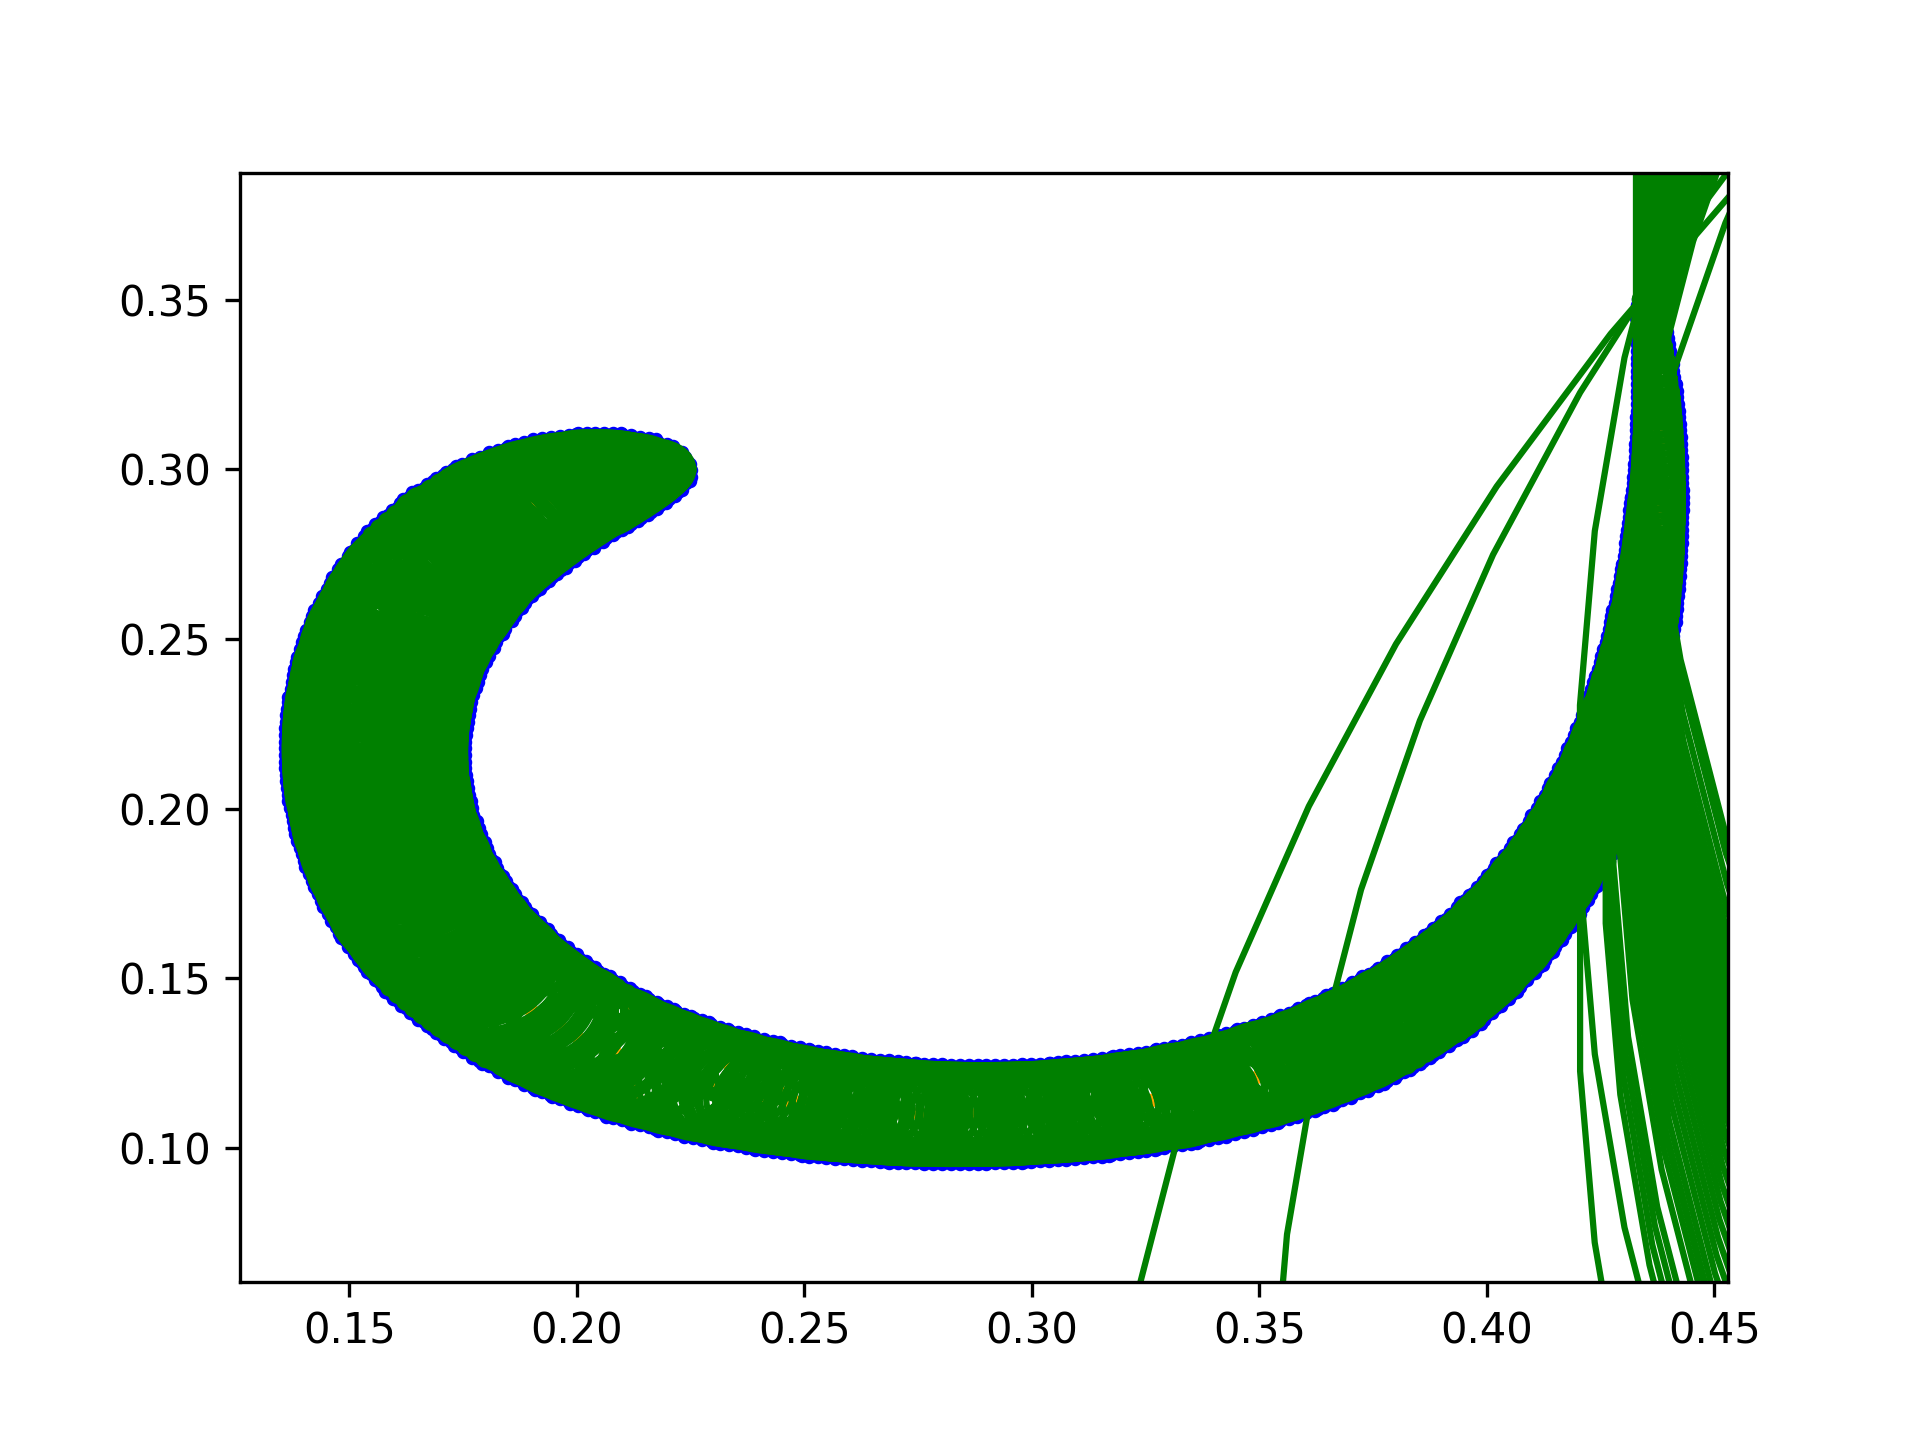
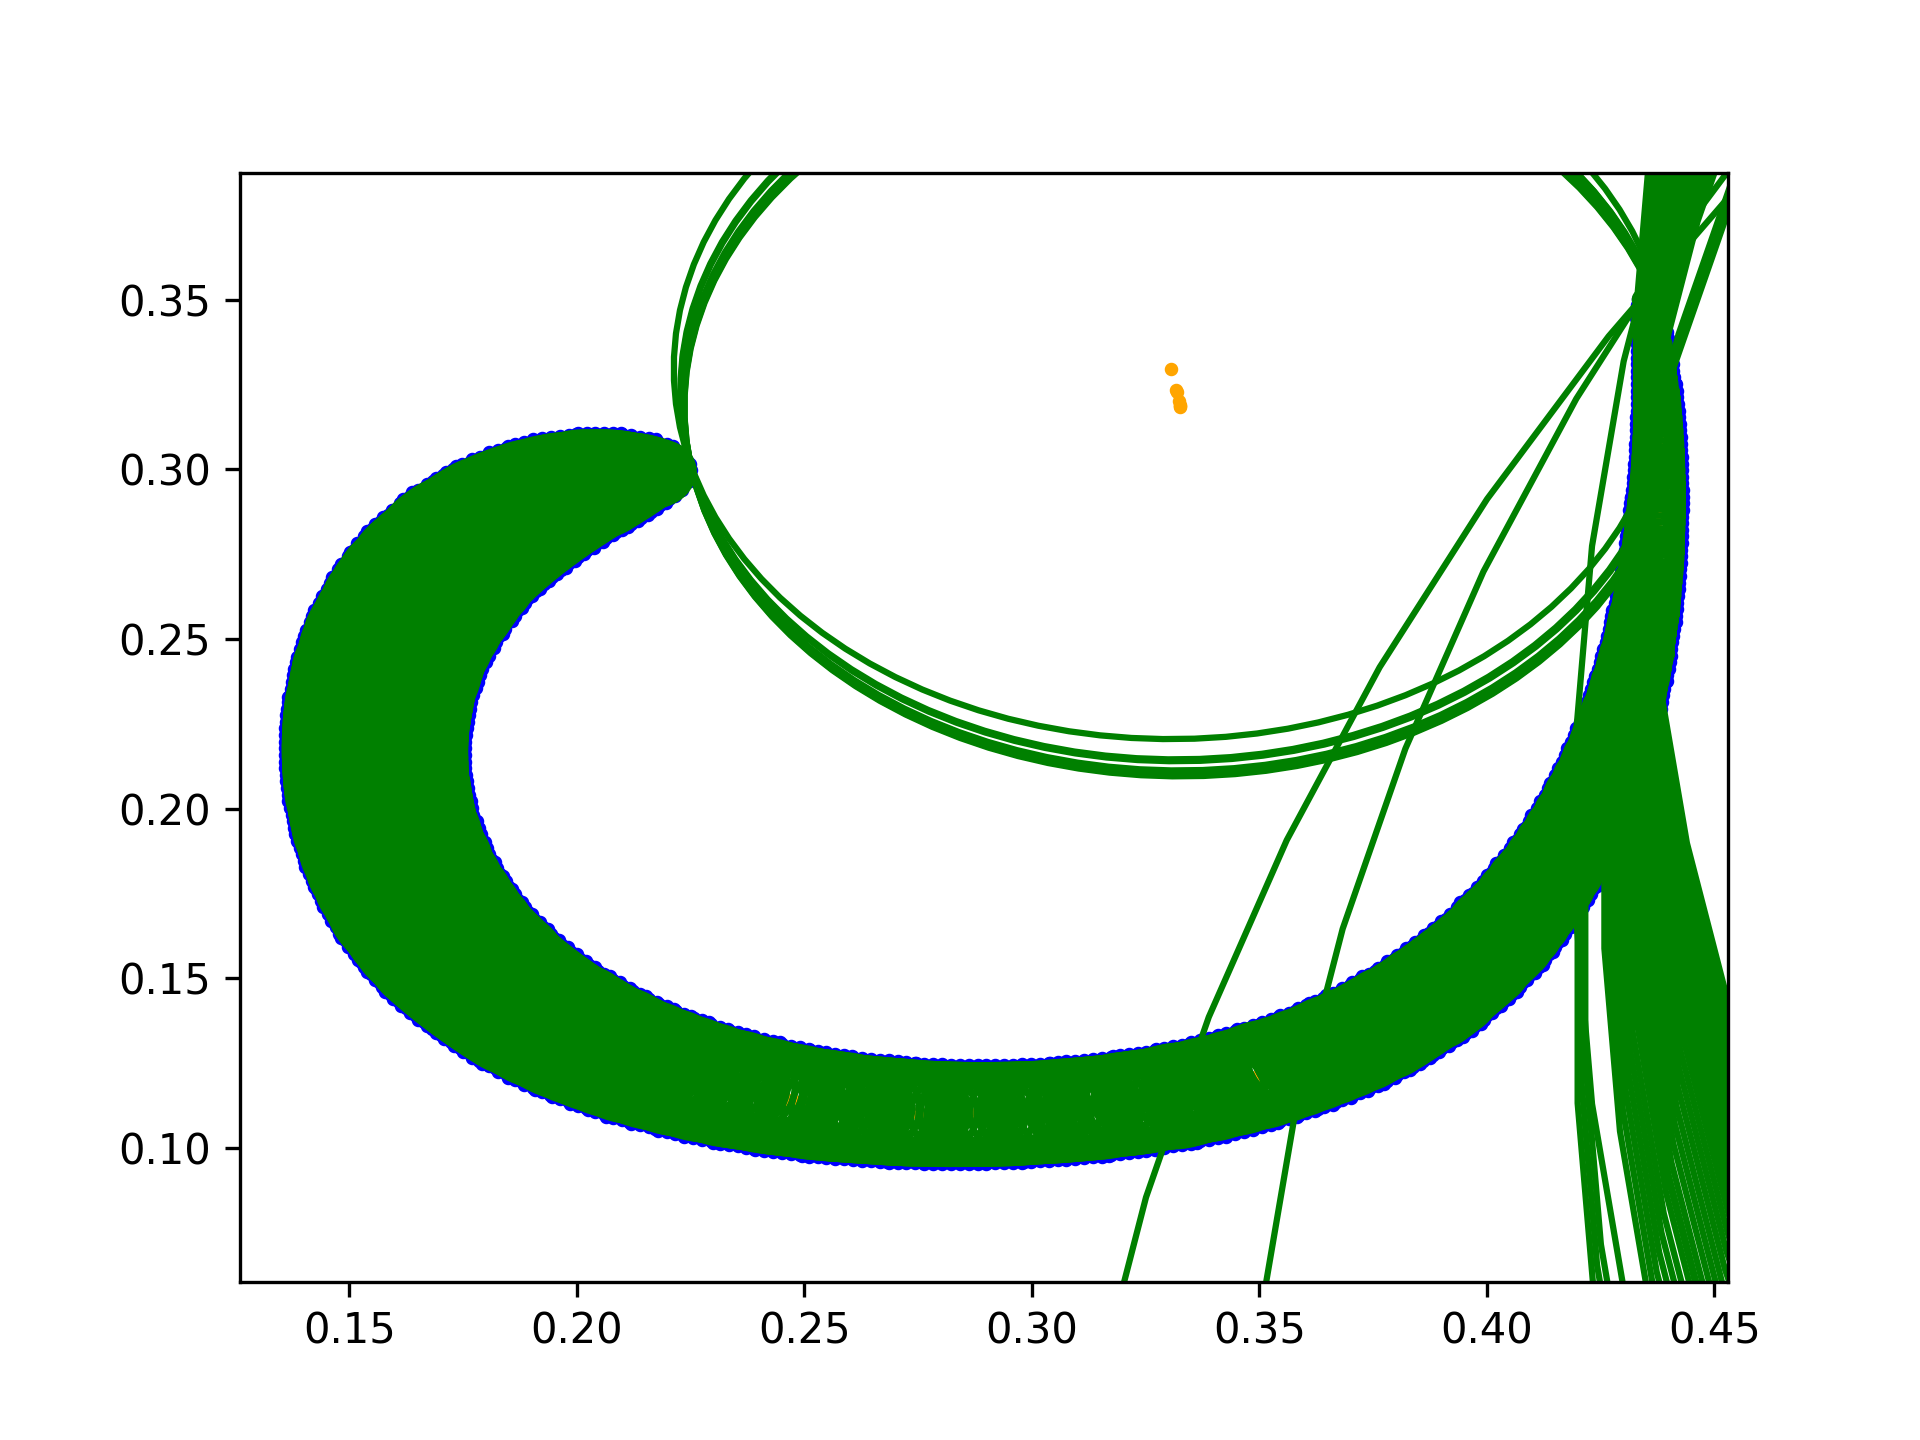
modified:   DataStructures.py 	modified:   Output.png 	modified:   OutputNoRad.png 	modified:   SkeleNet.py 	modified:   SkeleSave.dat 	modified:   __pycache__/DataStructures.cpython-36.pyc 	modified:   __pycache__/SkeleNet.cpython-36.pyc

diff --git a/DataStructures.py b/DataStructures.py
@@ -427,7 +427,9 @@ class kdTree:
 
     def getVectorR(self, data : list):
         depth = data[3]
+        print(depth)
         data[3] += 1
+        #print('searching',depth)
         if depth == 0:
             if len(data) == 5:
                 getRads = data[4]
@@ -486,9 +488,13 @@ class kdTree:
             if node.getAxis(self.axis) < data[0][self.axis] and data[1][self.axis] > 0:
                 #if want right leaf only
                 retpts,retdev = self.leafR.getVectorR(data)
+                print(data[0],'r only')
+                print(node.getPoint(),'along the',self.axis)
             elif node.getAxis(self.axis) < data[0][self.axis] and data[1][self.axis] < 0:
                 #if want left leaf only
                 retpts,retdev = self.leafL.getVectorR(data)
+                print(data[0],'l only')
+                print(node.getPoint(),'along the',self.axis)
             else:
                 retptsl,retdevl =  self.leafL.getVectorR(data)
                 retptsr,retdevr = self.leafR.getVectorR(data)
@@ -562,6 +568,8 @@ class kdTree:
             #         q += 1
             #     retpts.append(node)
             #     retdev.append(getDeviation(vector,tv))
+        if depth == 0:
+            print('Chose the point',retpts[0].getPoint(),'for',data[0])
         return retpts,retdev
                 
                 

diff --git a/SkeleNet.py b/SkeleNet.py
@@ -182,10 +182,10 @@ def skeletize(points : list,norms : list,threshDistance : float,tree : kdTree,an
                 q = 0
                 inputdat[0].append([])
                 while q < len(tnorm):
-                    inputdat[0][1].append(-1 * tnorm[q])
+                    inputdat[0][1].append(1 * tnorm[q])
                     q += 1
+                print('oop',inputdat[0][1],tnorm)
                 inputdat[0].append(threshDistance)
-                inputdat[0].append(1)
                 inputdat[0].append(0)
                 inputdat[0].append(False)
                 # results = tpool.map(tree.getVectorR,inputdat)
